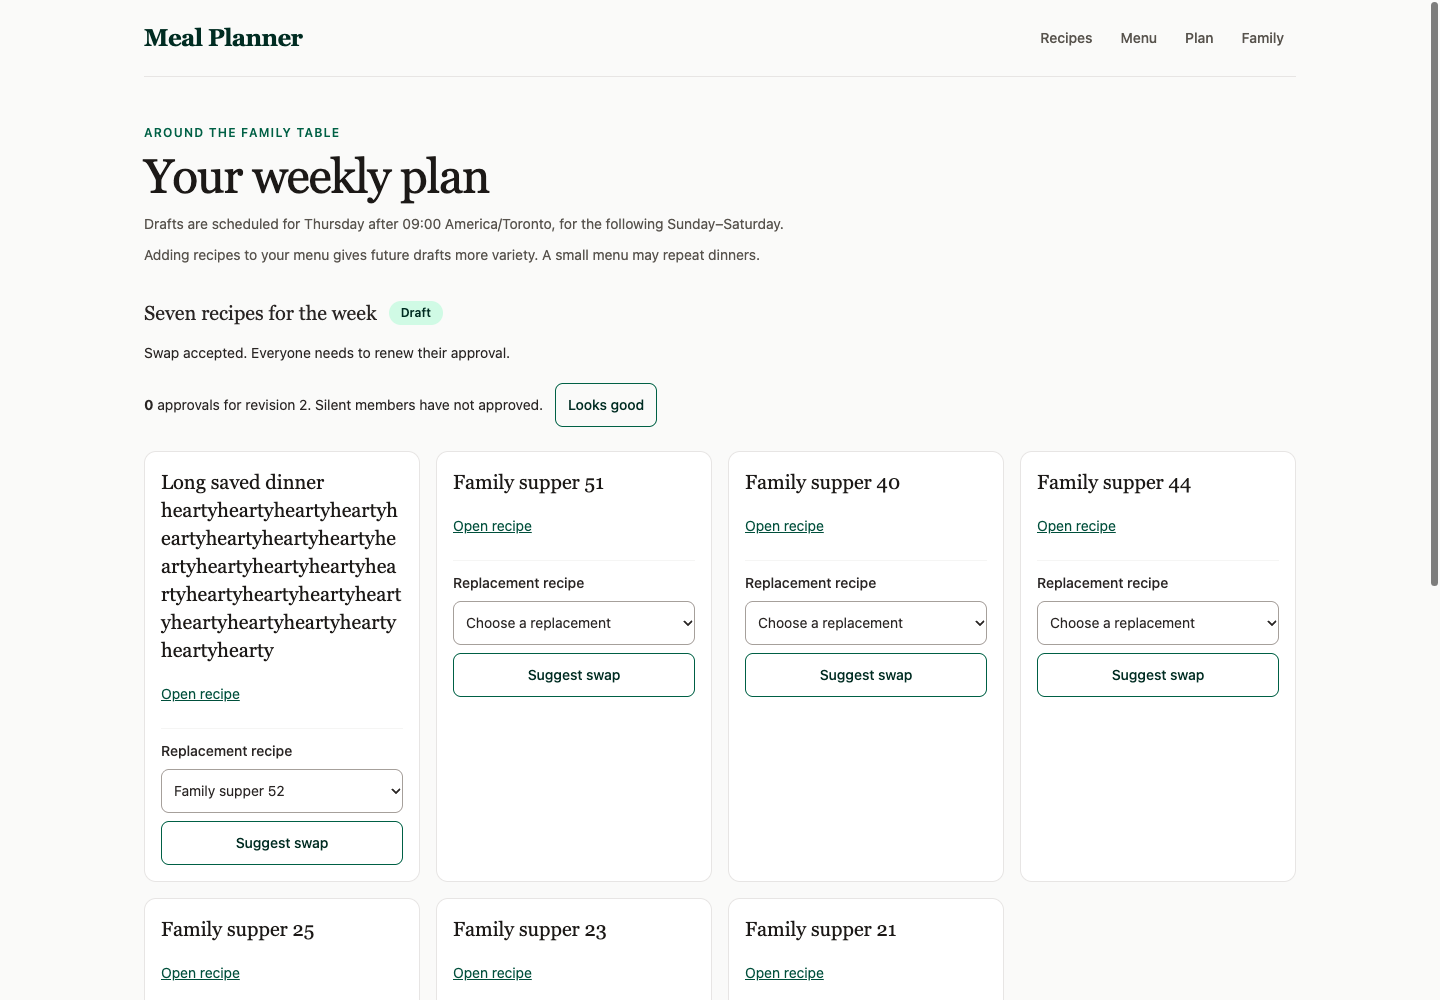
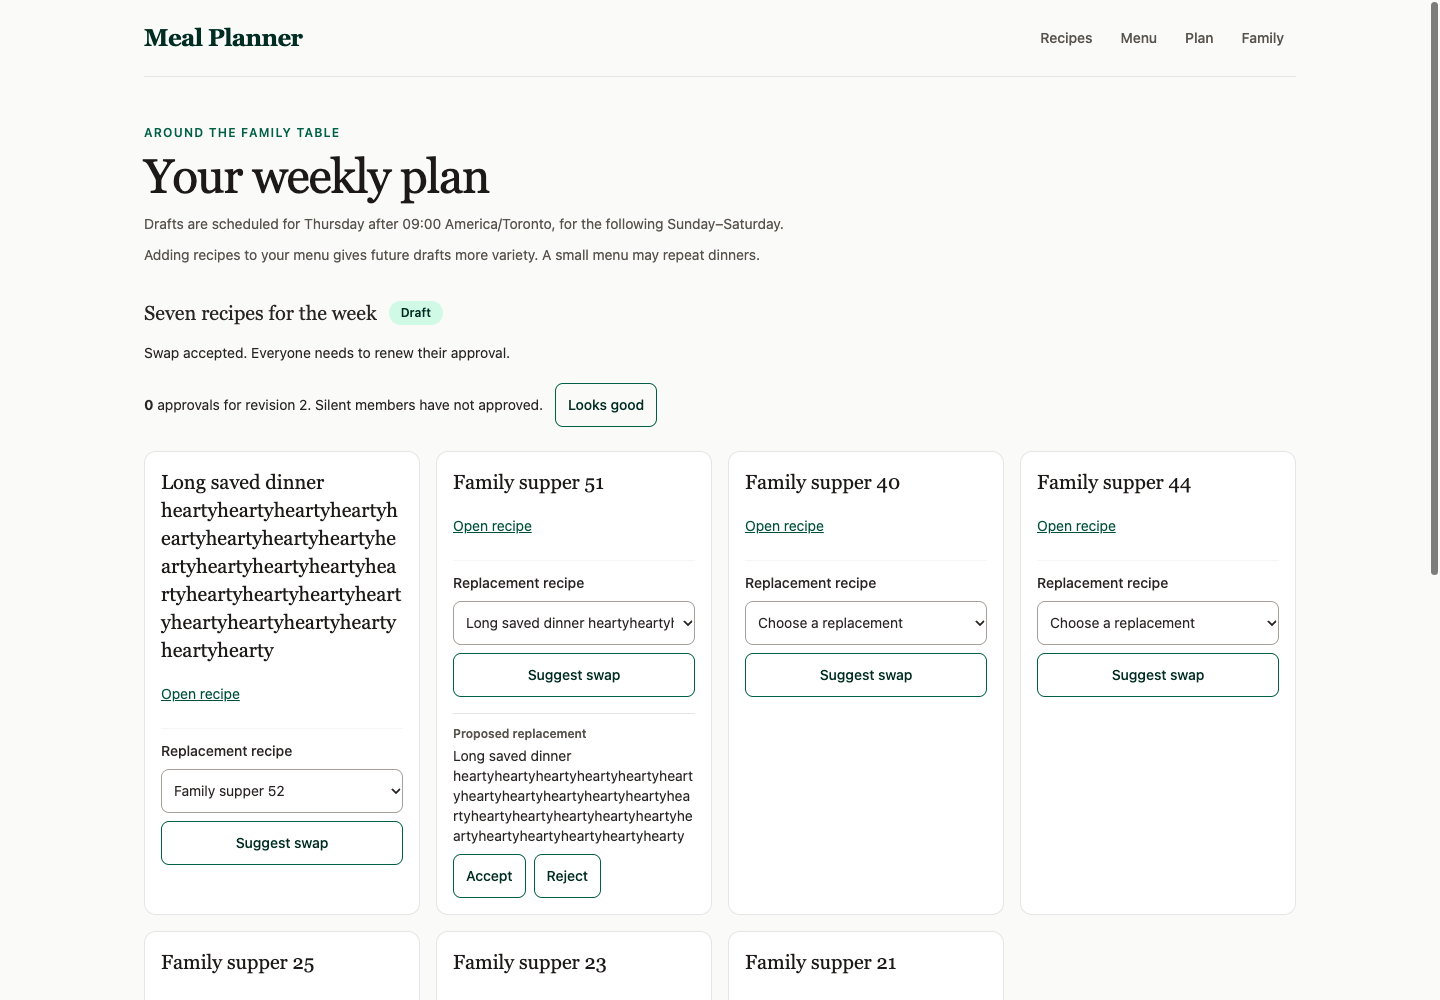
fix: preserve suggestions for other recipes after a swap

diff --git a/tests/plans/store.test.ts b/tests/plans/store.test.ts
@@ -86,3 +86,61 @@ test('100 pending suggestions bound a revision; resolving frees capacity and fin
   assert.equal((await db.one<{n:number}>("SELECT count(*) AS n FROM meal_plan_suggestions WHERE status='rejected'"))?.n,101);
  }finally{await db.close();await fixture.cleanup();}
 });
+
+test('accepting one recipe stales same-slot competitors and preserves other-slot proposal identity/content at the new revision',async()=>{
+ const fixture=await testDatabase();const db=await fixture.open();
+ try{
+  await provisionFamily(db,identity,allowed,false);await provisionFamily(db,other,allowed,false);
+  const member=await db.one<{family:string}>('SELECT family_id AS family FROM app_users WHERE google_subject=$1',[identity.googleSubject]);assert.ok(member);
+  await db.execute('UPDATE app_users SET family_id=$1 WHERE google_subject=$2',[member.family,other.googleSubject]);
+  for(let n=0;n<4;n++)await saveMenuRecipe(db,identity,allowed,recipe(n));await generateDuePlans(db,allowed,'Thursday',now);
+  let view=await readPlans(db,identity,allowed,{},now);const id=view.plan!.id;
+  const replacement0=view.menu.entries.find(entry=>entry.recipe.sourceUrl!==view.plan!.meals[0].sourceUrl)!;
+  const replacement1=view.menu.entries.find(entry=>entry.recipe.sourceUrl!==view.plan!.meals[1].sourceUrl)!;
+  await actOnPlan(db,identity,allowed,id,{action:'approve',revision:1},now);
+  await actOnPlan(db,identity,allowed,id,{action:'suggest',revision:1,day:0,menuRecipeId:replacement0.id},now);
+  await actOnPlan(db,other,allowed,id,{action:'suggest',revision:1,day:0,menuRecipeId:replacement0.id},now);
+  await actOnPlan(db,other,allowed,id,{action:'suggest',revision:1,day:1,menuRecipeId:replacement1.id},now);
+  const proposals=await db.all<{id:string;user_id:string;day_index:number}>('SELECT * FROM meal_plan_suggestions WHERE plan_id=$1',[id]);
+  const author=await db.one<{id:string}>('SELECT id FROM app_users WHERE google_subject=$1',[identity.googleSubject]);assert.ok(author);
+  const chosen=proposals.find(row=>row.day_index===0&&row.user_id===author.id)!;const competitor=proposals.find(row=>row.day_index===0&&row.user_id!==author.id)!;const unrelated=proposals.find(row=>row.day_index===1)!;
+  const foreignPlan=randomUUID(),foreignProposal=randomUUID();
+  await db.execute('INSERT INTO meal_plan_weeks (id,family_id,week_start,meals,created_at) VALUES ($1,$2,$3,$4,1)',[foreignPlan,member.family,'2026-12-06',JSON.stringify(view.plan!.meals)]);
+  await db.execute('INSERT INTO meal_plan_suggestions (id,plan_id,user_id,base_revision,day_index,menu_recipe_id,recipe,created_at) VALUES ($1,$2,$3,1,1,$4,$5,1)',[foreignProposal,foreignPlan,author.id,replacement1.id,JSON.stringify(replacement1.recipe)]);
+  const foreignBefore=await db.one('SELECT * FROM meal_plan_suggestions WHERE id=$1',[foreignProposal]);
+  await actOnPlan(db,identity,allowed,id,{action:'accept',revision:1,suggestionId:chosen.id},now);
+  assert.deepEqual(await db.one('SELECT * FROM meal_plan_suggestions WHERE id=$1',[foreignProposal]),foreignBefore,'other plan proposal untouched');
+  assert.deepEqual(await db.one('SELECT * FROM meal_plan_suggestions WHERE id=$1',[unrelated.id]),{...unrelated,base_revision:2});
+  assert.deepEqual(await db.one('SELECT * FROM meal_plan_suggestions WHERE id=$1',[chosen.id]),{...chosen,status:'accepted'});
+  assert.deepEqual(await db.one('SELECT * FROM meal_plan_suggestions WHERE id=$1',[competitor.id]),{...competitor,status:'stale'});
+  view=await readPlans(db,other,allowed,{week:'2026-11-29'},now);assert.equal(view.approvals,0);assert.equal(view.plan?.revision,2);assert.deepEqual(view.suggestions.map(row=>row.id),[unrelated.id]);
+  await assert.rejects(actOnPlan(db,other,allowed,id,{action:'accept',revision:1,suggestionId:unrelated.id},now),{status:409});
+  // A historical pending cohort is never swept into the active revision.
+  const historical=randomUUID();await db.execute('INSERT INTO meal_plan_suggestions (id,plan_id,user_id,base_revision,day_index,menu_recipe_id,recipe,created_at) VALUES ($1,$2,$3,1,2,$4,$5,1)',[historical,id,author.id,replacement1.id,JSON.stringify(replacement1.recipe)]);
+  const historicalBefore=await db.one('SELECT * FROM meal_plan_suggestions WHERE id=$1',[historical]);
+  await actOnPlan(db,other,allowed,id,{action:'accept',revision:2,suggestionId:unrelated.id},now);
+  assert.deepEqual(await db.one('SELECT * FROM meal_plan_suggestions WHERE id=$1',[historical]),historicalBefore,'historical pending cohort untouched');
+  view=await readPlans(db,identity,allowed,{week:'2026-11-29'},now);assert.equal(view.plan?.revision,3);assert.equal(view.plan?.meals[1].sourceUrl,replacement1.recipe.sourceUrl);assert.equal(view.suggestions.length,0);
+ }finally{await db.close();await fixture.cleanup();}
+});
+
+test('simultaneous different-recipe accepts serialize without consuming the stale request’s retained proposal',async()=>{
+ const fixture=await testDatabase();const db=await fixture.open();
+ try{
+  await provisionFamily(db,identity,allowed,false);for(let n=0;n<4;n++)await saveMenuRecipe(db,identity,allowed,recipe(n));await generateDuePlans(db,allowed,'Thursday',now);
+  let view=await readPlans(db,identity,allowed,{},now);const id=view.plan!.id;
+  for(const day of [0,1]){const replacement=view.menu.entries.find(entry=>entry.recipe.sourceUrl!==view.plan!.meals[day].sourceUrl)!;await actOnPlan(db,identity,allowed,id,{action:'suggest',revision:1,day,menuRecipeId:replacement.id},now);}
+  view=await readPlans(db,identity,allowed,{},now);const proposals=view.suggestions;
+  const outcomes=await Promise.allSettled(proposals.map(suggestion=>actOnPlan(db,identity,allowed,id,{action:'accept',revision:1,suggestionId:suggestion.id},now)));
+  assert.equal(outcomes.filter(result=>result.status==='fulfilled').length,1);
+  const loser=outcomes.findIndex(result=>result.status==='rejected');assert.equal(loser>=0,true);const outcome=outcomes[loser];assert.equal(outcome.status,'rejected');if(outcome.status==='rejected')assert.equal(outcome.reason.status,409);
+  view=await readPlans(db,identity,allowed,{},now);assert.equal(view.plan?.revision,2);assert.deepEqual(view.suggestions,[proposals[loser]]);
+  await actOnPlan(db,identity,allowed,id,{action:'accept',revision:2,suggestionId:proposals[loser].id},now);
+  view=await readPlans(db,identity,allowed,{},now);assert.equal(view.plan?.revision,3);assert.equal(view.suggestions.length,0);
+  const replacement=view.menu.entries.find(entry=>entry.recipe.sourceUrl!==view.plan!.meals[2].sourceUrl)!;
+  await actOnPlan(db,identity,allowed,id,{action:'suggest',revision:3,day:2,menuRecipeId:replacement.id},now);
+  await actOnPlan(db,identity,allowed,id,{action:'finalize',revision:3},now);
+  assert.equal((await db.one<{n:number}>("SELECT count(*) AS n FROM meal_plan_suggestions WHERE plan_id=$1 AND status='pending'",[id]))?.n,0);
+  assert.equal((await db.one<{n:number}>("SELECT count(*) AS n FROM meal_plan_suggestions WHERE plan_id=$1 AND status='accepted'",[id]))?.n,2);
+ }finally{await db.close();await fixture.cleanup();}
+});

diff --git a/tests/plans/browser.ts b/tests/plans/browser.ts
@@ -42,15 +42,25 @@ try{
  for(const event of [{type:'keyDown',key:'Escape',code:'Escape',windowsVirtualKeyCode:27},{type:'keyUp',key:'Escape',code:'Escape',windowsVirtualKeyCode:27},{type:'keyDown',key:'l',code:'KeyL',text:'l',unmodifiedText:'l',windowsVirtualKeyCode:76},{type:'keyUp',key:'l',code:'KeyL',windowsVirtualKeyCode:76}])await browser.send('Input.dispatchKeyEvent',event);
  await browser.waitFor("Boolean(document.querySelector('#swap-0').value)",'physical saved dinner selection');
  await browser.click('[data-plan-suggest="0"]');await browser.waitFor("Boolean(document.querySelector('[data-plan-accept]'))",'saved suggestion');
+ await browser.waitFor("!document.querySelector('#swap-1').disabled",'second recipe swap enabled');
+ await browser.click('#swap-1');
+ for(const event of [{type:'keyDown',key:'Escape',code:'Escape',windowsVirtualKeyCode:27},{type:'keyUp',key:'Escape',code:'Escape',windowsVirtualKeyCode:27},{type:'keyDown',key:'l',code:'KeyL',text:'l',unmodifiedText:'l',windowsVirtualKeyCode:76},{type:'keyUp',key:'l',code:'KeyL',windowsVirtualKeyCode:76}])await browser.send('Input.dispatchKeyEvent',event);
+ await browser.waitFor("Boolean(document.querySelector('#swap-1').value)",'second physical replacement selection');
+ await browser.click('[data-plan-suggest="1"]');await browser.waitFor("document.querySelectorAll('[data-plan-accept]').length===2",'two recipe suggestions saved');
+ view=await readPlans(db,identity,allowed,{},due);const retained=view.suggestions.find(suggestion=>suggestion.day===1)!;assert.ok(retained);
  await browser.click('[data-plan-accept]');await browser.waitFor("document.body.innerText.includes('revision 2') && document.querySelector('[data-plan-approve]')?.textContent==='Looks good'",'accepted swap clears approvals');
  assert.equal((await readPlans(db,identity,allowed,{},due)).approvals,0);
+ await browser.waitFor("document.querySelectorAll('[data-plan-accept]').length===1 && Boolean(document.querySelector('article:nth-of-type(2) [data-plan-accept]'))",'other recipe suggestion survives accepted swap');
+ assert.deepEqual((await readPlans(db,identity,allowed,{},due)).suggestions,[retained]);
  for(const width of [320,1440]){await browser.viewport(width);await browser.screenshot(`org/reviews/weekly-plan-swap-${width}.png`);}
- // Another device accepts a real stored suggestion while this browser holds revision2.
+ await browser.click('article:nth-of-type(2) [data-plan-accept]');await browser.waitFor("document.body.innerText.includes('revision 3') && !document.querySelector('[data-plan-accept]')",'retained suggestion resolved through refreshed real HTTP');
+ view=await readPlans(db,identity,allowed,{},due);assert.equal(view.plan?.meals[1].sourceUrl,retained.recipe.sourceUrl);
+ // Another device accepts a real stored suggestion while this browser holds revision3.
  view=await readPlans(db,identity,allowed,{},due);const replacement=view.menu.entries.find(entry=>entry.recipe.sourceUrl!==view.plan!.meals[1].sourceUrl)!;
- await actOnPlan(db,identity,allowed,id,{action:'suggest',revision:2,day:1,menuRecipeId:replacement.id},due);
- view=await readPlans(db,identity,allowed,{},due);await actOnPlan(db,identity,allowed,id,{action:'accept',revision:2,suggestionId:view.suggestions[0].id},due);
+ await actOnPlan(db,identity,allowed,id,{action:'suggest',revision:3,day:1,menuRecipeId:replacement.id},due);
+ view=await readPlans(db,identity,allowed,{},due);await actOnPlan(db,identity,allowed,id,{action:'accept',revision:3,suggestionId:view.suggestions[0].id},due);
  await browser.click('[data-plan-approve]');await browser.waitFor("document.querySelector('[role=alert]')?.textContent.includes('Refresh')",'real stale conflict guidance');
- await browser.click('[role=alert] button');await browser.waitFor("document.body.innerText.includes('revision 3')",'refresh current revision');
+ await browser.click('[role=alert] button');await browser.waitFor("document.body.innerText.includes('revision 4')",'refresh current revision');
  // Saved-menu pagination keeps the selected week and reaches older saved entries.
  await browser.click('nav[aria-label="Saved dinner pages"] a[href*="menuAfter="]');
  await browser.waitFor("location.search.includes('menuAfter=') && document.querySelectorAll('#swap-0 option').length <= 5",'older saved dinner choices');
@@ -73,5 +83,5 @@ try{
  await browser.click('#history-week');await browser.send('Input.dispatchKeyEvent',{type:'keyDown',key:'Tab',code:'Tab',windowsVirtualKeyCode:9});await browser.send('Input.dispatchKeyEvent',{type:'keyUp',key:'Tab',code:'Tab',windowsVirtualKeyCode:9});
  assert.equal(await browser.evaluate("document.activeElement.matches(':focus-visible')"),true,'native keyboard focus remains visible');
  assert.deepEqual(browser.errors.filter(error=>!/Failed to load resource: the server responded with a status of 409\b/.test(error)),[]);
- console.log('Chrome320/1440: seven dinners, labels/focus/no overflow, real approve/suggest/accept/reset, stale conflict refresh, paged menu, confirmation, immutable retained history passed.');
+ console.log('Chrome320/1440: seven dinners, labels/focus/no overflow, real approve/two-card suggest/accept/retain/resolve/reset, stale conflict refresh, paged menu, confirmation, immutable retained history passed.');
 }catch(error){if(browser)console.error('Weekly browser diagnostic:',await browser.evaluate("({feedback:document.querySelector('[role=alert],[role=status]')?.textContent,active:document.activeElement?.outerHTML?.slice(0,300),selection:document.querySelector('#swap-0')?.value})"));throw error;}finally{await browser?.close();await server?.stop();await db?.close();await fixture.cleanup();}

diff --git a/lib/plans/store.ts b/lib/plans/store.ts
@@ -67,7 +67,10 @@ export async function actOnPlan(db: FamilyDatabase, identity: VerifiedIdentity, 
         plan.meals[suggestion.day] = replacement;
         await tx.execute('UPDATE meal_plan_weeks SET meals=$2,revision=revision+1 WHERE id=$1', [id, JSON.stringify(plan.meals)]);
         await tx.execute('DELETE FROM meal_plan_approvals WHERE plan_id=$1', [id]);
-        await tx.execute("UPDATE meal_plan_suggestions SET status=CASE WHEN id=$2 THEN 'accepted' ELSE 'stale' END WHERE plan_id=$1 AND status='pending'", [id, suggestion.id]);
+        await tx.execute(`UPDATE meal_plan_suggestions
+          SET status=CASE WHEN id=$2 THEN 'accepted' WHEN day_index=$3 THEN 'stale' ELSE status END,
+              base_revision=CASE WHEN day_index<>$3 THEN $4 ELSE base_revision END
+          WHERE plan_id=$1 AND base_revision=$5 AND status='pending'`, [id, suggestion.id, suggestion.day, plan.revision + 1, plan.revision]);
       }
     }
     return { ok: true as const };

diff --git a/intent/weekly-meal-planning/verification.md b/intent/weekly-meal-planning/verification.md
@@ -129,3 +129,56 @@ correction loop completed in three turns; original six-turn completion remains
 in its archive. Python workflow regressions reran7/7, full feature plan-sync and
 workflow checks passed. Remaining audit commits do not change this fixed source.
 Human merge/release, hosted migration and scheduler activation remain pending.
+
+## Swap-suggestion retention amendment — final feature evidence
+
+Owner requirement `org/messages/ceo-0053.md`; independently approved before source
+changes in `org/reviews/weekly-meal-planning-swap-plan-001.md`.
+
+Test-first `node --import tsx --test tests/plans/store.test.ts` exited1: existing
+3 tests passed,2 new regressions failed. The old implementation marked an
+unrelated proposal stale at base_revision1 instead of preserving it pending at2;
+concurrent different-slot acceptance likewise left no retained proposal.
+
+The runtime correction is one scoped SQL UPDATE in the existing locked accept
+transaction: the chosen current-revision proposal becomes accepted, same-slot
+pending competitors stale, and unrelated current pending slots update only their
+base_revision. All unrelated IDs/users/menu IDs/snapshots/status/timestamps remain
+unchanged. Approval reset, plan revision increment and overall stale-request409
+remain unchanged. The WHERE clause is bound to plan, old revision and pending
+status; tests additionally compare complete foreign-plan and historical-pending
+rows before/after to prove they are untouched. No migration/API/UI/auth/scheduler
+or dependency changes.
+
+Focused store suite then exited0,5/5. Final `pnpm run lint` exit0;
+`pnpm run typecheck` exit0; `pnpm run build` exit0. `pnpm run test:plans` exit0,
+15/15 (previous13 plus2 new multiuser/concurrency regressions). The previous
+212-test total above belongs to the prior presentation revision; the current
+planning suite contains15 tests, making214 Node tests when combined with the
+existing199-suite regression set. Root is recording that set's current rerun.
+Root's current Python workflow run passed7/7.
+
+`node --import tsx tests/plans/browser.ts` exited0 on the stable final build:
+“Chrome320/1440: seven dinners, labels/focus/no overflow, real approve/two-card
+suggest/accept/retain/resolve/reset, stale conflict refresh, paged menu,
+confirmation, immutable retained history passed.” Both proposals were submitted
+through physical native controls and real HTTP; accepting the first retained the
+second on its card with identical stored proposal identity/content, and a later
+physical accept resolved it through refreshed real HTTP. All undated header/card,
+history-selector and prior interaction checks remain.
+
+Recaptured the six feature screenshots; the swap images now show the meaningful
+retained-proposal state. Visually inspected `weekly-plan-swap-1440.png`: the first
+recipe is replaced, the second still visibly has its proposed replacement and
+Accept/Reject controls. Inspected the320px long-title swap: no numeric header/card
+dates, text wraps inside the recipe card and no horizontal overflow. Owned
+server/Chrome profile/test database were cleaned up. `git diff --check` exit0.
+
+
+Root completed the full existing regression rerun after the stable swap-retention
+build: `pnpm test`82/82; `pnpm run test:family`34/34; `pnpm run test:menu`35/35;
+`pnpm run test:auth`16/16; and `node --import tsx --test tests/deployment/*.test.ts`
+32/32. Every command exited0. With the15 planning tests, the updated Node total
+is214 passed. `python3 -m unittest discover -s tests` reran7/7, exit0.
+Owned isolated resources only; no source changes or concurrent rebuilds during
+these checks. Independent swap-retention security and final review follow.

diff --git a/org/memory/context.md b/org/memory/context.md
@@ -9,8 +9,8 @@ intent/weekly-meal-planning/intent.md
 ## Loop
 
 - status: in_progress
-- turn: 1
-- phase: build
+- turn: 2
+- phase: security
 - stop_reason: None
 
 ## Agents
@@ -20,8 +20,8 @@ intent/weekly-meal-planning/intent.md
 - orchestrator: idle (unassigned)
 - product-manager: idle (unassigned)
 - reviewer: idle (unassigned)
-- security-researcher: idle (unassigned)
-- senior-developer: busy (weekly-meal-planning-swap-plan)
+- security-researcher: busy (weekly-plan-swap-retention-security)
+- senior-developer: idle (unassigned)
 
 ## Open messages
 
@@ -95,6 +95,8 @@ intent/weekly-meal-planning/intent.md
 - orchestrator-0085 orchestrator -> security-researcher handoff: Review shared layout auth and privacy boundaries
 - orchestrator-0086 orchestrator -> reviewer handoff: Final shared layout implementation review
 - orchestrator-0098 orchestrator -> reviewer handoff: Review swap suggestion retention amendment
+- orchestrator-0099 orchestrator -> senior-developer handoff: Implement recipe-scoped swap retention
+- orchestrator-0100 orchestrator -> security-researcher handoff: Assess transactional swap retention change
 - product-manager-0002 product-manager -> orchestrator decision: Accepted pnpm migration intent
 - product-manager-0003 product-manager -> orchestrator decision: Accepted authenticated-access intent with Google sign-in
 - product-manager-0004 product-manager -> orchestrator decision: Accepted server-side Gmail allowlist amendment
@@ -157,6 +159,7 @@ intent/weekly-meal-planning/intent.md
 - senior-developer-0008 senior-developer -> security-researcher handoff: Inspect stable single-call provider implementation
 - senior-developer-0009 senior-developer -> reviewer handoff: Inspect stable single-call implementation before final evidence handoff
 - senior-developer-0015 senior-developer -> orchestrator handoff: Shared layout implementation verified
+- senior-developer-0018 senior-developer -> orchestrator handoff: Swap retention implemented and verified
 
 ## Recent decisions
 
@@ -173,10 +176,11 @@ intent/weekly-meal-planning/intent.md
 ## Artifacts
 
 - org/reviews/weekly-meal-planning-swap-plan-001.md (0ce309c529b2e7539c8d82af58752ea424441ddbb461c23444496aff58be4646)
+- intent/weekly-meal-planning/verification.md (41521cdfb0543ce1e7a7fbd8ba3895c0fd076ea894379619142a322508507bb7)
 
 ## Next action
 
-reviewer:approve_swap_retention_amendment
+senior-developer:preserve_other_recipe_suggestions
 
 ## Last digest source
 

diff --git a/intent/weekly-meal-planning/plan.md b/intent/weekly-meal-planning/plan.md
@@ -50,6 +50,7 @@
 - `org/loop/history.jsonl`
 - `org/loop/archive/shared-site-layout-before-weekly-meal-planning-2026-11-24/*`
 - `org/loop/archive/weekly-meal-planning-before-header-date-refinement-2026-11-24/*`
+- `org/loop/archive/weekly-plan-header-before-swap-retention-2026-11-24/*`
 - `org/status.yaml`
 - `org/messages/*.md`
 - `org/reviews/*weekly-meal-planning*`
@@ -198,7 +199,7 @@ preserved under the added process archive path in this plan manifest.
 
 ## Owner behavior amendment — retain suggestions for other recipes
 
-Pending independent review before source changes. Source is the owner's active
+Independently approved before source changes: `org/reviews/weekly-meal-planning-swap-plan-001.md`. Source: `org/messages/ceo-0053.md`, the owner's
 request that accepting a swap clear only competing suggestions for that recipe.
 Supersedes the all-other-pending-stale rule, without broadening the existing
 source manifest.

diff --git a/org/messages/orchestrator-0100.md b/org/messages/orchestrator-0100.md
@@ -1,0 +1,16 @@
+---
+id: orchestrator-0100
+from: orchestrator
+to: security-researcher
+kind: handoff
+subject: Assess transactional swap retention change
+artifact: weekly-plan-swap-retention-implementation
+requires_response: false
+in_reply_to: null
+status: open
+severity: null
+blocking: false
+created_at: "2026-11-24T20:13:24Z"
+---
+
+Review single scoped acceptance UPDATE and new metadata/concurrency/isolation regressions after allchecks green. Only same-slot competitors stale; unrelated pending currentcohort carried to new revision. Verify atomicity, pending unique/cap, historical/foreign isolation, staleclientguard, approvalreset and no new auth/schema effects. Independent source report required.

diff --git a/org/messages/senior-developer-0018.md b/org/messages/senior-developer-0018.md
@@ -1,0 +1,16 @@
+---
+id: senior-developer-0018
+from: senior-developer
+to: orchestrator
+kind: handoff
+subject: Swap retention implemented and verified
+artifact: intent/weekly-meal-planning/verification.md
+requires_response: false
+in_reply_to: null
+status: open
+severity: null
+blocking: false
+created_at: "2026-11-24T20:13:23Z"
+---
+
+One scoped transactional UPDATE preserves other recipe pending suggestions at new revision. Tests-first2new regression failures then5storegreen,15plansgreen; lint/typecheck/build and real Chrome two-card flow320/1440 pass. Root full199existingNode+7Python pass (214Node total). No core auth/API/schema or deployment changes; ready security/final review.

diff --git a/org/messages/orchestrator-0099.md b/org/messages/orchestrator-0099.md
@@ -1,0 +1,16 @@
+---
+id: orchestrator-0099
+from: orchestrator
+to: senior-developer
+kind: handoff
+subject: Implement recipe-scoped swap retention
+artifact: intent/weekly-meal-planning/plan.md
+requires_response: false
+in_reply_to: null
+status: open
+severity: null
+blocking: false
+created_at: "2026-11-24T20:08:11Z"
+---
+
+Amendment independently approved and committed. Write regression proving unrelated pending suggestions survive accepted swap and remain actionable at new revision; implement minimal locked same-slot invalidation and other-slot revision carry. Keep approval reset/stale checks/family bounds. Run required checks and Chrome two-card flow.
